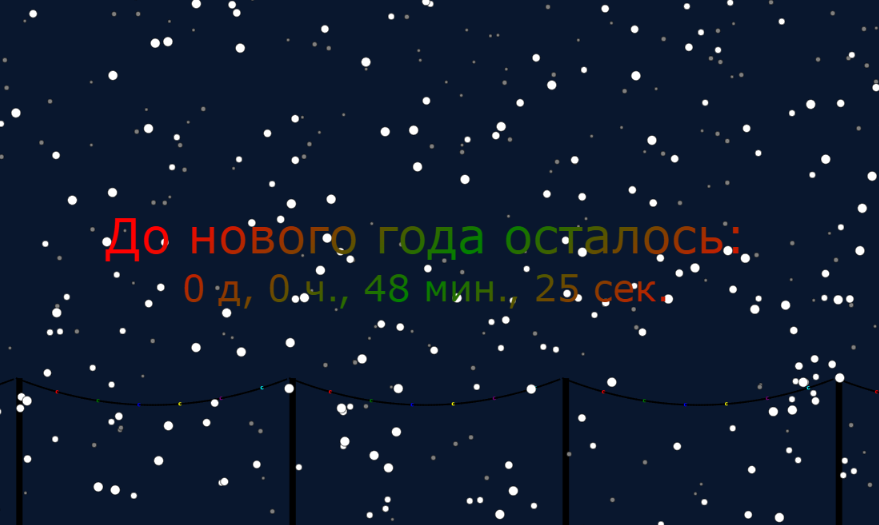
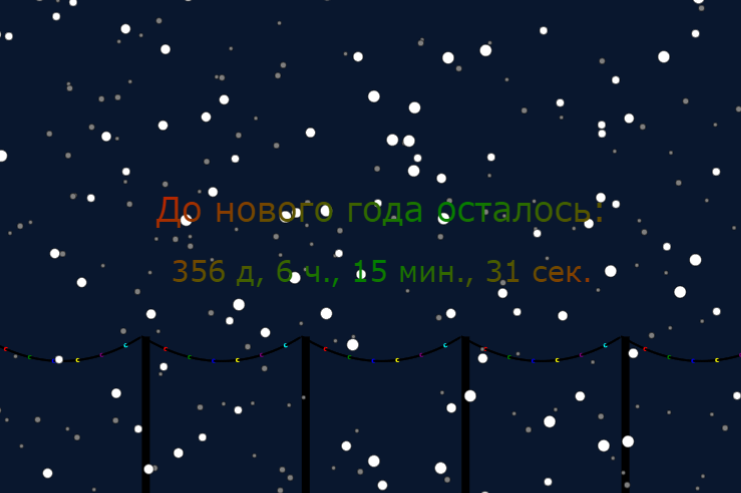
Changed styles Updated new year project image Fixed some bugs with viewport Added type for Cards

diff --git a/pages/projects/index.tsx b/pages/projects/index.tsx
@@ -1,15 +1,8 @@
 import { Card } from '@components/_pages/card'
 import { CardsContainer, PageContainer, PageDescription, Title } from '@components/_pages/projects'
-import { StaticImageData } from "next/image"
+import Head from 'next/head'
 import { Fragment, useEffect, useState } from "react"
-
-
-interface CardInterface {
-    name: string
-    description: string
-    href: string
-    img: StaticImageData
-}
+import { CardInterface } from 'types/cards'
 
 
 export default function CardsComponent() {
@@ -31,12 +24,30 @@ export default function CardsComponent() {
 
 
     return (
-        <PageContainer>
-            <Title>Мои проекты</Title>
-            <PageDescription>Здесь находятся мои проекты: от самых новых, до самых старых.<br /> Да, они тут не все, потому что большинство я не нашёл силы закончить. :(</PageDescription>
-            <CardsContainer>
-                {loading ? <h1>Проекты загружаются...</h1> : MappedCards}
-            </CardsContainer>
-        </PageContainer>
+        <Fragment>
+            <HeadersMeta />
+            <PageContainer>
+                <Title>Мои проекты</Title>
+                <PageDescription>Здесь находятся мои проекты: от самых новых до самых старых.</PageDescription>
+                <CardsContainer>
+                    {loading ? <h1>Проекты загружаются...</h1> : MappedCards}
+                </CardsContainer>
+            </PageContainer>
+        </Fragment>
+    )
+}
+
+function HeadersMeta() {
+    return (
+        <Head>
+            <meta property="og:title" content="Проекты" />
+            <meta property="og:description" content="Список разработанных мной проектов." />
+            <meta property="og:site_name" content="Евгений Антоненков" />
+            <meta property="og:url" content="https://yazmeyaa.itracers.xyz/" />
+            <meta property="og:type" content="article" />
+            <meta property="og:image" content="https://yazmeyaa.itracers.xyz/images/my_photo.jpg" />
+            <meta property="og:image:width" content="630" />
+            <meta property="og:image:height" content="630" />
+        </Head>
     )
 }

diff --git a/components/_pages/card/styled.tsx b/components/_pages/card/styled.tsx
@@ -8,16 +8,16 @@ export const Container = styled.section`
         position: relative;
         box-sizing: border-box;
         display: flex;
-        height: fit-content;
         flex-direction: column;
         gap: 8px;
         width: min-content;
         font-family: "open_sans_regular";
         font-weight: 400;
         font-style: normal;
-        border: 2px solid black;
-        padding: 6px;
+        box-shadow: 0px 0px 12px rgba(0, 0, 0, 0.3);
+        padding: 1rem;
         border-radius: 6px;
+        padding-bottom: 3rem;
     }
 `
 
@@ -38,12 +38,13 @@ export const Title = styled.h2`
 export const Description = styled.small`
 &{
     font-size: ${fluidTypography(480, 1440, 12, 16)};
-    line-height: 1.6;
+    line-height: 1.6;   
 }`
 
 export const StyledLink = styled(Link)`
     &{
-        width: 100%;
+        width: 80%;
+        font-size: ${fluidTypography(480, 1440, 16, 20)};
         box-sizing: border-box;
         background-color: black;
         border: 2px solid black;
@@ -53,6 +54,11 @@ export const StyledLink = styled(Link)`
         text-decoration: none;
         transition: all ease-out 0.2s;
         user-select: none;
+        position: absolute;
+        bottom: 12px;
+        left: 50%;
+        transform: translate(-50%);
+        border-radius: 6px;
     }
     &:hover {
         color: black;

diff --git a/components/navigationLink/styled.tsx b/components/navigationLink/styled.tsx
@@ -11,17 +11,16 @@ interface NavigationLinkProps {
 
 export const NavigationLink = styled(Link) <NavigationLinkProps>`
     &{
-        text-decoration: ${props => { return props.$current ? 'underline' : 'none' }};
-        text-decoration-thickness: 3px;
         font-family: 'open_sans_bold';
         color:  ${props => props.color};
+        text-decoration: none;
     }
     &:visited{
         color: inherit;
     }
     &::after {
         content: '';
-        width: 0px;
+        width: ${props => {return props.$current ? '100%' : '0%'}};
         height: 2px;
         display: block;
         background: ${props => props.color};

diff --git a/pages/api/get_projects.ts b/pages/api/get_projects.ts
@@ -1,14 +1,7 @@
-import axios from "axios";
 import { NextApiRequest, NextApiResponse } from "next";
-import { StaticImageData } from "next/image";
+import { CardInterface } from "types/cards";
 
 
-interface CardInterface {
-    name: string
-    description: string
-    href: string
-    img: StaticImageData
-}
 
 const cards: CardInterface[] = [
     {

diff --git a/components/layout/index.tsx b/components/layout/index.tsx
@@ -6,11 +6,13 @@ import { Footer } from "@components/footer"
 
 const RootComponent = styled.main`
     &{
+        max-width: 1440px;
         position: relative;
         width: auto;
         margin: 0px auto;
         padding: 0px 2rem;
         flex: 1 0 auto;
+        margin-bottom: 80px;
     }
 `
 

diff --git a/components/header/styled.tsx b/components/header/styled.tsx
@@ -4,6 +4,8 @@ import styled from "styled-components";
 
 export const Container = styled.header`
     &{
+        margin: 0px auto;
+        max-width: 1440px;
         position: relative;
         display: flex;
         justify-content: space-between;

diff --git a/types/cards.ts b/types/cards.ts
@@ -1,0 +1,8 @@
+import { StaticImageData } from "next/image"
+
+export interface CardInterface {
+    name: string
+    description: string
+    href: string
+    img: StaticImageData
+}
